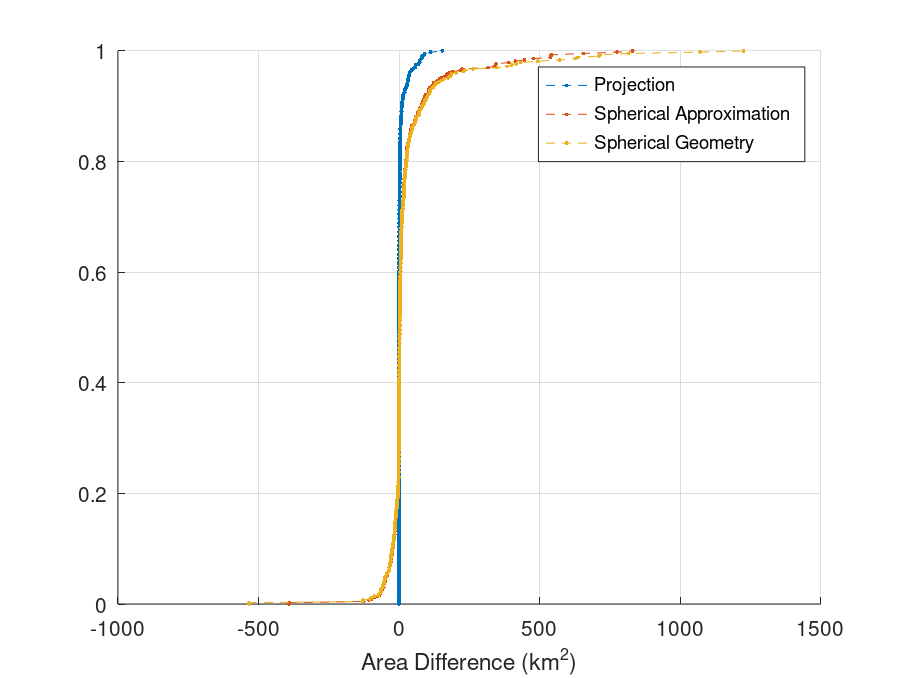
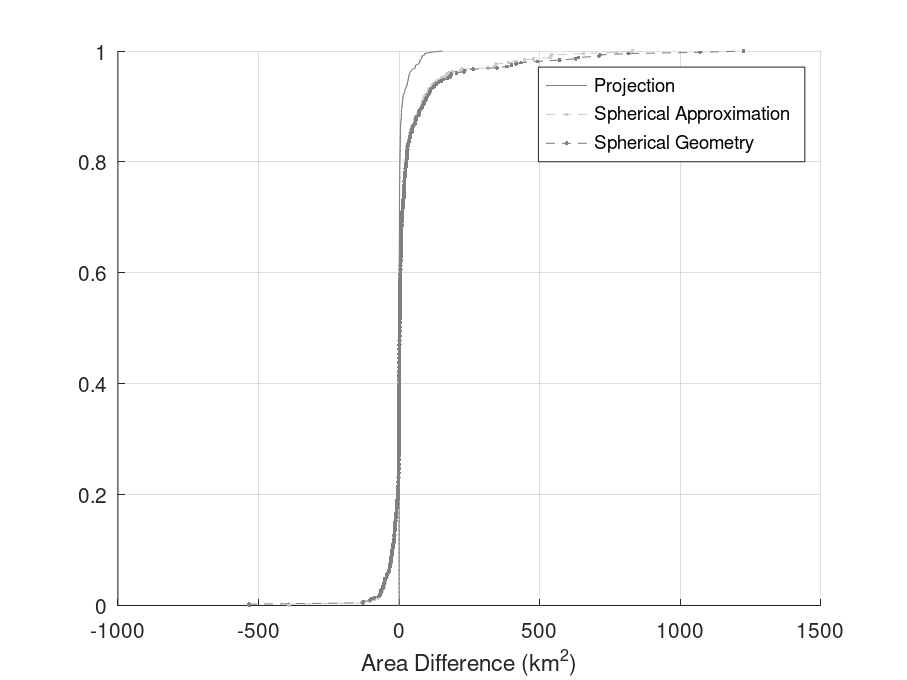
Figures to greyscale, minor text improvements

diff --git a/GeodeticEnvelopeScore.tex b/GeodeticEnvelopeScore.tex
@@ -1,6 +1,6 @@
 \documentclass{article}
 \author{David Gore\thanks{davidgore@protonmail.com}}
-\title{The Geodetic Envelope Score}
+\title{Research Note: The Geodetic Envelope Score}
 \date{January 27, 2026}
 
 \usepackage[
@@ -15,6 +15,8 @@
 \usepackage{graphicx}
 \usepackage{float}
 \usepackage[colorlinks=true, urlcolor=blue, linkcolor=black, citecolor=black]{hyperref}
+\usepackage{xurl}
+\usepackage{hyperref}
 
 % Numbered examples without section number
 \newtheorem{example}{Example}
@@ -22,8 +24,6 @@
 
 \begin{document}
 \maketitle
-
-Google Scholar Profile: Not available for the author.
 
 \begin{abstract}
 A measure is introduced which can be used to determine the degree of gerrymandering in a U.S. Congressional voting district.
@@ -75,7 +75,7 @@ longitude and $\varphi$ denotes geodetic latitude. As a measure of district gerr
 \textit{Geodetic Envelope Score} defined as follows.
 \begin{definition}[Geodetic Envelope Score]
 Let $D$ be a district and $S$ the geodetic envelope containing $D$. The Geodetic Envelope Score of district $D$ is
-\[GES = \frac{A(D)}{A(S)}
+\[GE = \frac{A(D)}{A(S)}
 \]
 where $A$ is the area operator.
 \end{definition}
@@ -485,7 +485,7 @@ gerrymandering of a district.
 \setcounter{equation}{0}
 
 \newpage
-\section{Appendix}
+\section*{Appendix}
 \subsection*{Formulas}
 The elliptical integral of the second kind is given by
 \[
@@ -509,15 +509,12 @@ the surface area of the surface of revolution obtained from revolving a region f
 by substituting $dx/dy = -a^2y/b^2x$ into the above equation
 \begin{align*}
     S(y)&= 2\pi\int_{y}^{b}x\sqrt{\frac{b^4x^2+a^4y^2}{b^4x^2}} \,dy \\
-        &= \frac{2\pi}{b^2}\int_{y}^{b}\sqrt{b^4x^2+a^4y^2} \, dy \\
-        &= \frac{2\pi}{b^2}\int_{y}^{b}\sqrt{b^4(a^2-\frac{a^2}{b^2y^2})+a^4y^2} \, dy \\
-        &= \frac{2\pi}{b^2}(ab)\int_{y}^{b}\sqrt{b^2-y^2+\frac{a^2}{b^2}y^2} \, dy \\
         &= 2\pi(\frac{a}{b})\int_{y}^{b}\sqrt{b^2+\frac{a^2-b^2}{b^2}y^2} \, dy \\
         &= 2\pi(\frac{a}{b})\int_{y}^{b}\sqrt{b^2+e'^2y^2} \, dy \\
 \end{align*}
-The surface area of the latitudinal band between points $y=y_1$ and $y=y_2$ is $S=S(y_1)-S(y_2)$, or
+The surface area of the latitudinal band between points $y=y_1$ and $y=y_2$ is then $S=S(y_1)-S(y_2)$, or
 \begin{equation*}
-    S = 2\pi\int_{y_1}^{y_2} \sqrt{b^2+e'^2y^2} \,dy
+    S = 2\pi(\frac{a}{b})\int_{y_1}^{y_2} \sqrt{b^2+e'^2y^2} \,dy
 \end{equation*}
 where $y_1 = N(1-e^2)sin(\varphi_1)$ and $y_1 = N(1-e^2)sin(\varphi_2)$. To evaluate the integral let $y=(b/e')tan(u)$. 
 The integral becomes
@@ -544,12 +541,8 @@ modeled by a sphere of radius $a$.
 On behalf of all authors, the corresponding author states that there is no conflict of interest.
 
 \section*{Data Availability Statement}
-Congressional District data was downloaded from the ArcGIS Hub website:\\
+Congressional District data was downloaded from the ArcGIS Hub website:
 \url{https://hub.arcgis.com/datasets/usdot::congressional-districts/explore}. 
-\\
-\\
-The outputs from calculations described in this manuscript can be found in the file "DistrictTable.csv" in the GIT Hub repository:\\
-\url{https://github.com/YAR0277/LaTeX}.
 
 \newpage
 \printbibliography
